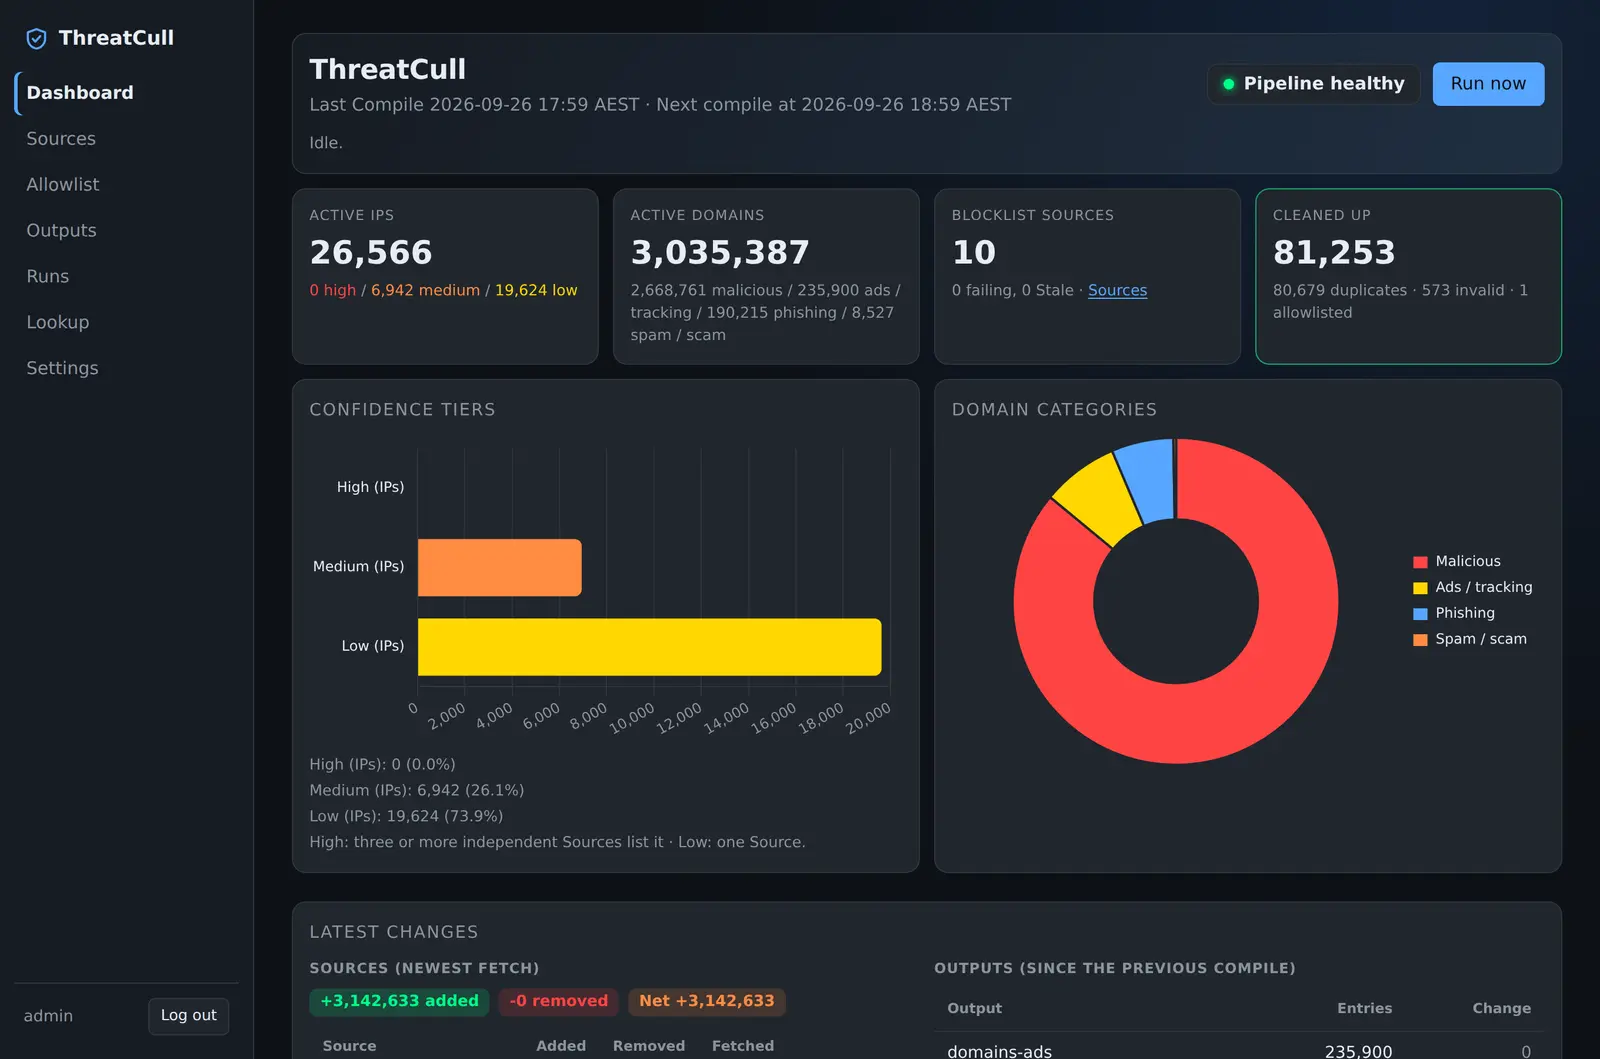
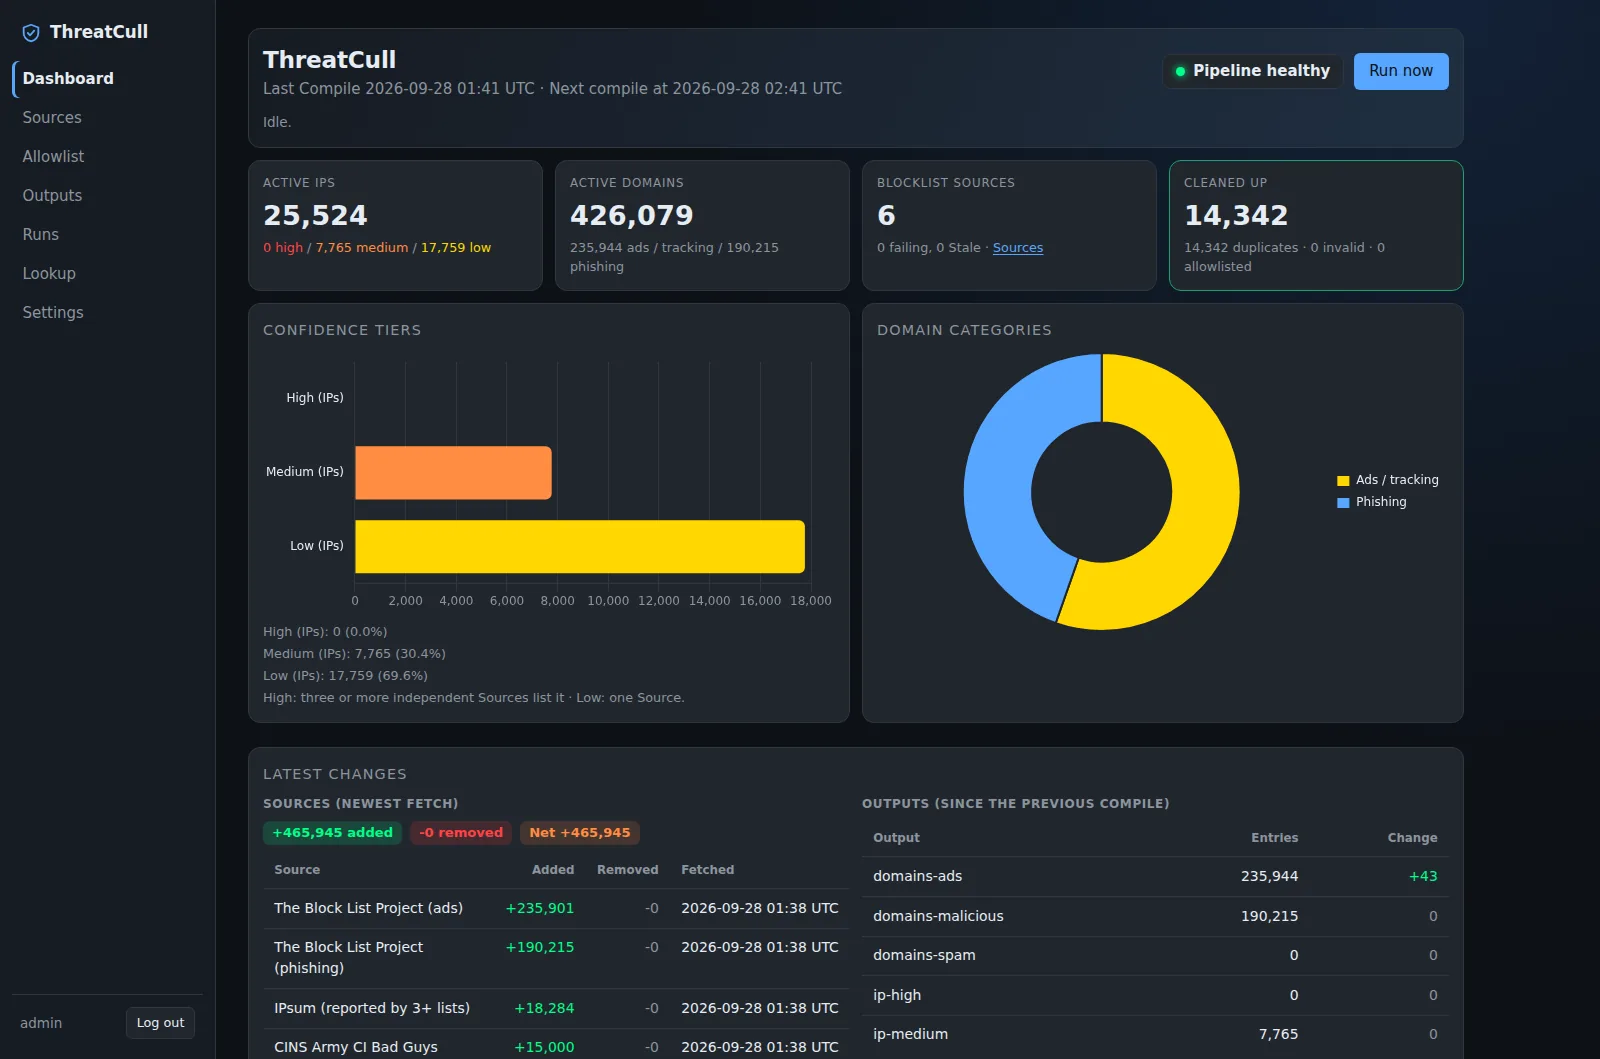
docs: 2.0 screenshots and the :2 image tag
The README screenshots (dashboard, Lookup, Sources; light and dark)
are retaken from a 2.0 install. docker-compose.yaml now pulls :2, so a
new install gets 2.x; existing :1 installs stay on 1.x until the
operator changes the tag, which the 2.0 upgrade table now says.

diff --git a/CHANGELOG.md b/CHANGELOG.md
@@ -17,6 +17,7 @@ use. The Catalog gets its own page, and Source suggestions are checked automatic
 
 | If you | Now |
 |---|---|
+| Use the `:1` image tag (the 1.x compose file) | Change it to `:2` in your compose file or Portainer stack; `:1` stays on 1.x. |
 | Read the Licence or Business use columns on the Sources page | The Feed column links each Source to its list; check the publisher's page. |
 | Run `sources enable --acknowledge-restricted` or `sources add-custom --business-use` | Drop the flag; both are gone. |
 | Read `licence`, `licence_url`, `licence_class` or `business_use` from `/api/v1/sources` | Those fields are gone. |

diff --git a/README.md b/README.md
@@ -92,7 +92,7 @@ in the web UI to see its UTC value.
 docker compose pull && docker compose up -d
 ```
 
-The `:1` tag follows 1.x releases. Pin a version such as `:1.0.0` to upgrade by hand. Sources you
+The `:2` tag follows 2.x releases. Pin a version such as `:2.0.0` to upgrade by hand. Sources you
 disabled stay disabled.
 
 **Catalog only:** to pick up new or corrected sources between releases, use **Check for updates**
